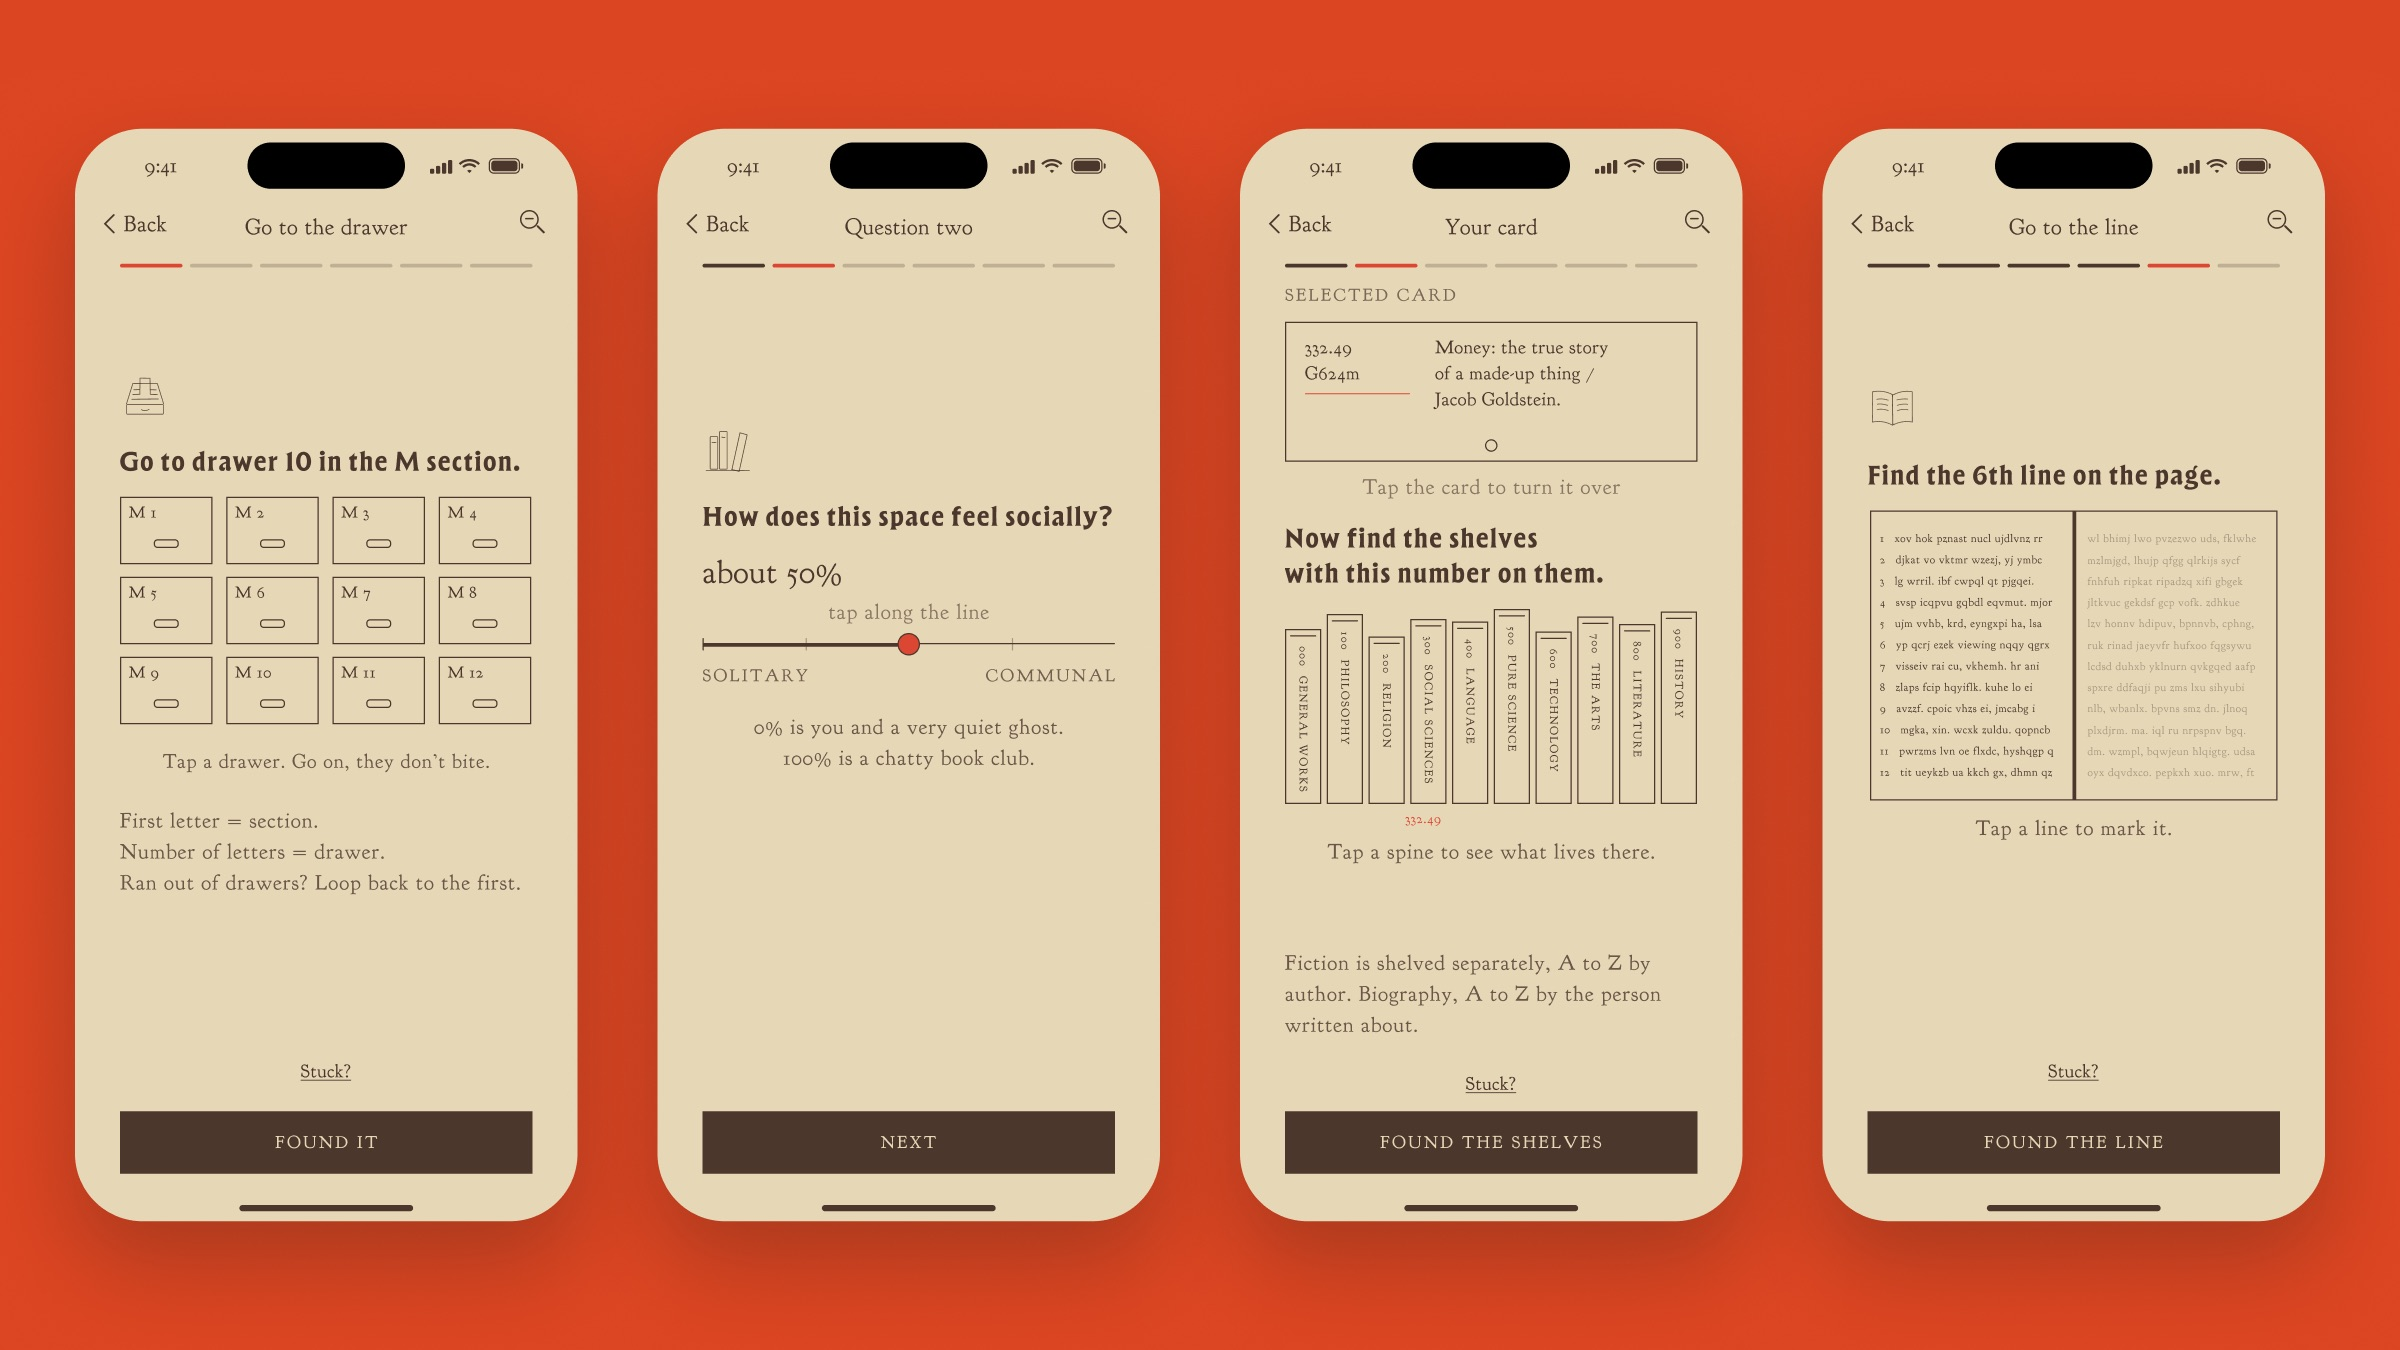
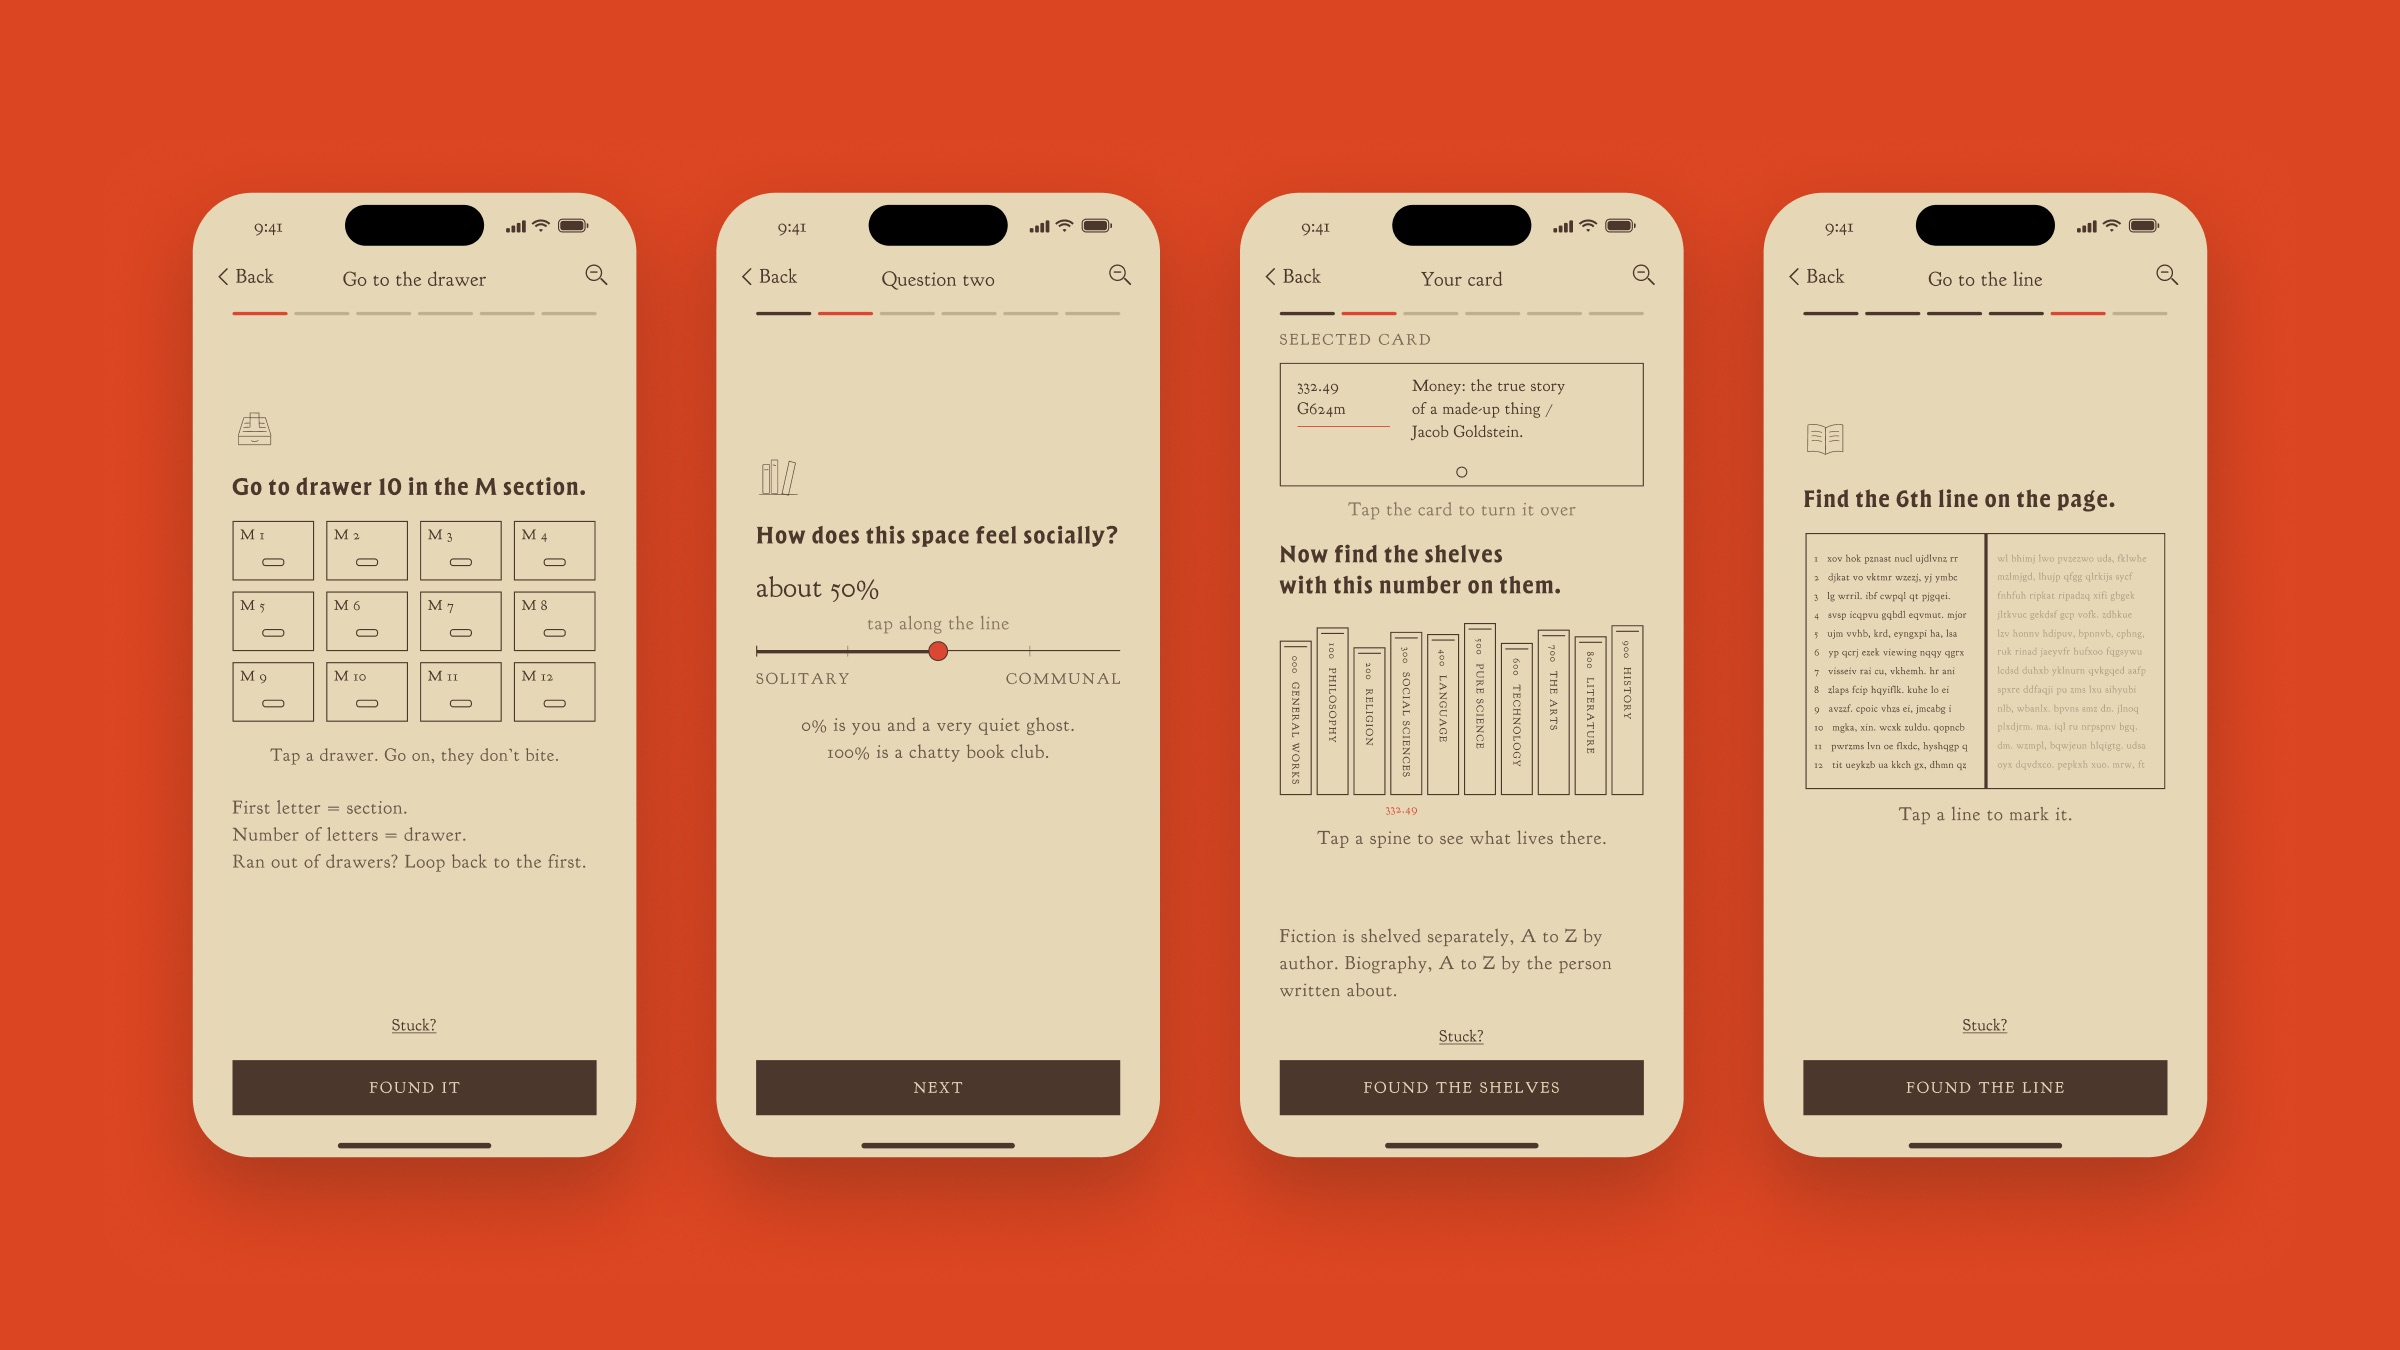
MÆZE: equal margins around phone rows

diff --git a/maze.html b/maze.html
@@ -25,7 +25,7 @@
     <a class="label inline back" href="./">← Back</a>
     <div class="duo">
       <img class="shot" src="img/maze-cover.jpg" alt="MÆZE" fetchpriority="high" width="2400" height="1350">
-      <img class="shot" src="img/maze-01.jpg?v=20261114d" alt="MÆZE" fetchpriority="high" width="2400" height="1350">
+      <img class="shot" src="img/maze-01.jpg?v=20261114f" alt="MÆZE" fetchpriority="high" width="2400" height="1350">
     </div>
     <div class="details details-pair">
       <div class="title-col"><h1 class="heading">MÆZE</h1><div class="tags"><span class="tag">UX/UI</span><span class="tag">wayfinding</span></div></div>
@@ -34,8 +34,8 @@
     <div class="gallery two-up">
     <img class="shot" src="img/maze-02.jpg?v=20261114e" alt="MÆZE" loading="lazy" width="2400" height="1350">
     <img class="shot" src="img/maze-03.jpg?v=20261114d" alt="MÆZE" loading="lazy" width="2400" height="1350">
-    <img class="shot" src="img/maze-04.jpg?v=20261114d" alt="MÆZE" loading="lazy" width="2400" height="1350">
-    <img class="shot" src="img/maze-05.jpg?v=20261114d" alt="MÆZE" loading="lazy" width="2400" height="1350">
+    <img class="shot" src="img/maze-04.jpg?v=20261114f" alt="MÆZE" loading="lazy" width="2400" height="1350">
+    <img class="shot" src="img/maze-05.jpg?v=20261114f" alt="MÆZE" loading="lazy" width="2400" height="1350">
     <img class="shot" src="img/maze-06.jpg?v=20261114c" alt="MÆZE" loading="lazy" width="2400" height="1350">
     <img class="shot" src="img/maze-07.jpg?v=20261114c" alt="MÆZE" loading="lazy" width="2400" height="1350">
     </div>
